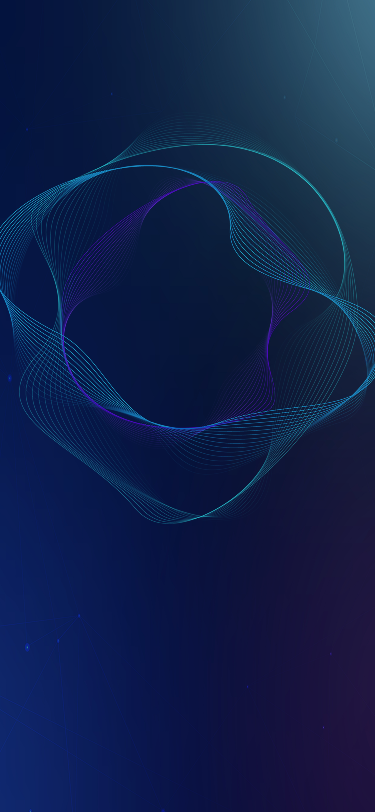
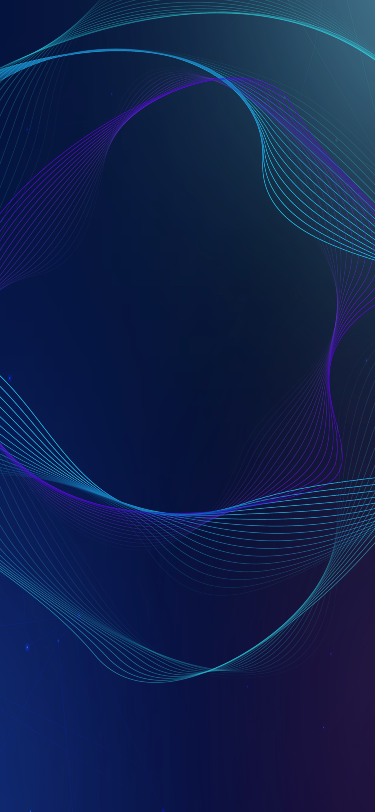
메인 모바일  이미지 수정

diff --git a/src/scss/pages/_visual.scss b/src/scss/pages/_visual.scss
@@ -10,7 +10,8 @@
     max-height: 456px;
     padding-top: 100px;
     .frames{
-      background: url("@/assets/images/frame1.png") no-repeat center 0 / cover;
+      background: url("@/assets/images/frame1-mobile.png") no-repeat center 0;
+      background-size: 100% 100%;
       max-width: 690px;
       aspect-ratio: 1 / 1;
       margin: 0 auto;
@@ -18,6 +19,7 @@
       @media (min-width: 1024px) {
         padding-top: 120px;
         max-width: 580px;
+        background-size: cover;
       }
     }
     @media (min-width: 1024px) {
